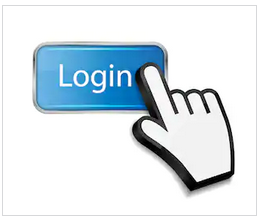
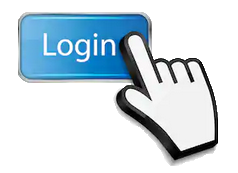
Log in

diff --git a/src/app/login/login.component.css b/src/app/login/login.component.css
@@ -1,41 +1,20 @@
 img {
   margin-top: 60%;
   height: 200px;
-  width: 100%;
+  width: 90%;
 }
 
-div [class^="col-"] {
-  padding-left: 5px;
-  padding-right: 5px;
-}
 .card {
   transition: 0.5s;
   cursor: pointer;
-  height: 100%;
+  /* height: 50%; */
   width: 30%;
-  /* margin-top: ; */
 }
-.card-title {
-  font-size: 15px;
-  transition: 1s;
-  cursor: pointer;
-}
-.card-title i {
-  font-size: 15px;
-  transition: 1s;
-  cursor: pointer;
-  color: #ffa710;
-}
-.card-title i:hover {
-  transform: scale(1.25) rotate(100deg);
-  color: #18d4ca;
-}
+
 .card:hover {
+  display: inline-block;
   transform: scale(1.05);
-  box-shadow: 10px 10px 15px rgba(0, 0, 0, 0.3);
-}
-.card-text {
-  height: 80px;
+  box-shadow: 10px 10px 5px rgba(0, 0, 0, 0.3);
 }
 
 .card::before,
@@ -65,6 +44,6 @@ div [class^="col-"] {
 }
 
 .bgg {
-  margin-left: 40%;
+  margin-left: 25%;
   border-radius: 12px solid gray;
 }

diff --git a/src/app/login/login.component.html b/src/app/login/login.component.html
@@ -2,7 +2,7 @@
   <div class="row">
     <div class="col-md-3 col-sm-6">
       <a href="../requester">
-        <div class="card card-block">
+        <div class="card">
           <img src="./../../assets/login.png" alt="Login" />
         </div>
       </a>

diff --git a/src/app/requester/requester.component.css b/src/app/requester/requester.component.css
@@ -1,6 +1,7 @@
 .side {
   box-shadow: 0 5px 5px rgba(0, 0, 0, 0.19), 0 6px 6px rgba(0, 0, 0, 0.23);
   height: 7%;
+  z-index: 999;
 }
 /* .belnav {
   
